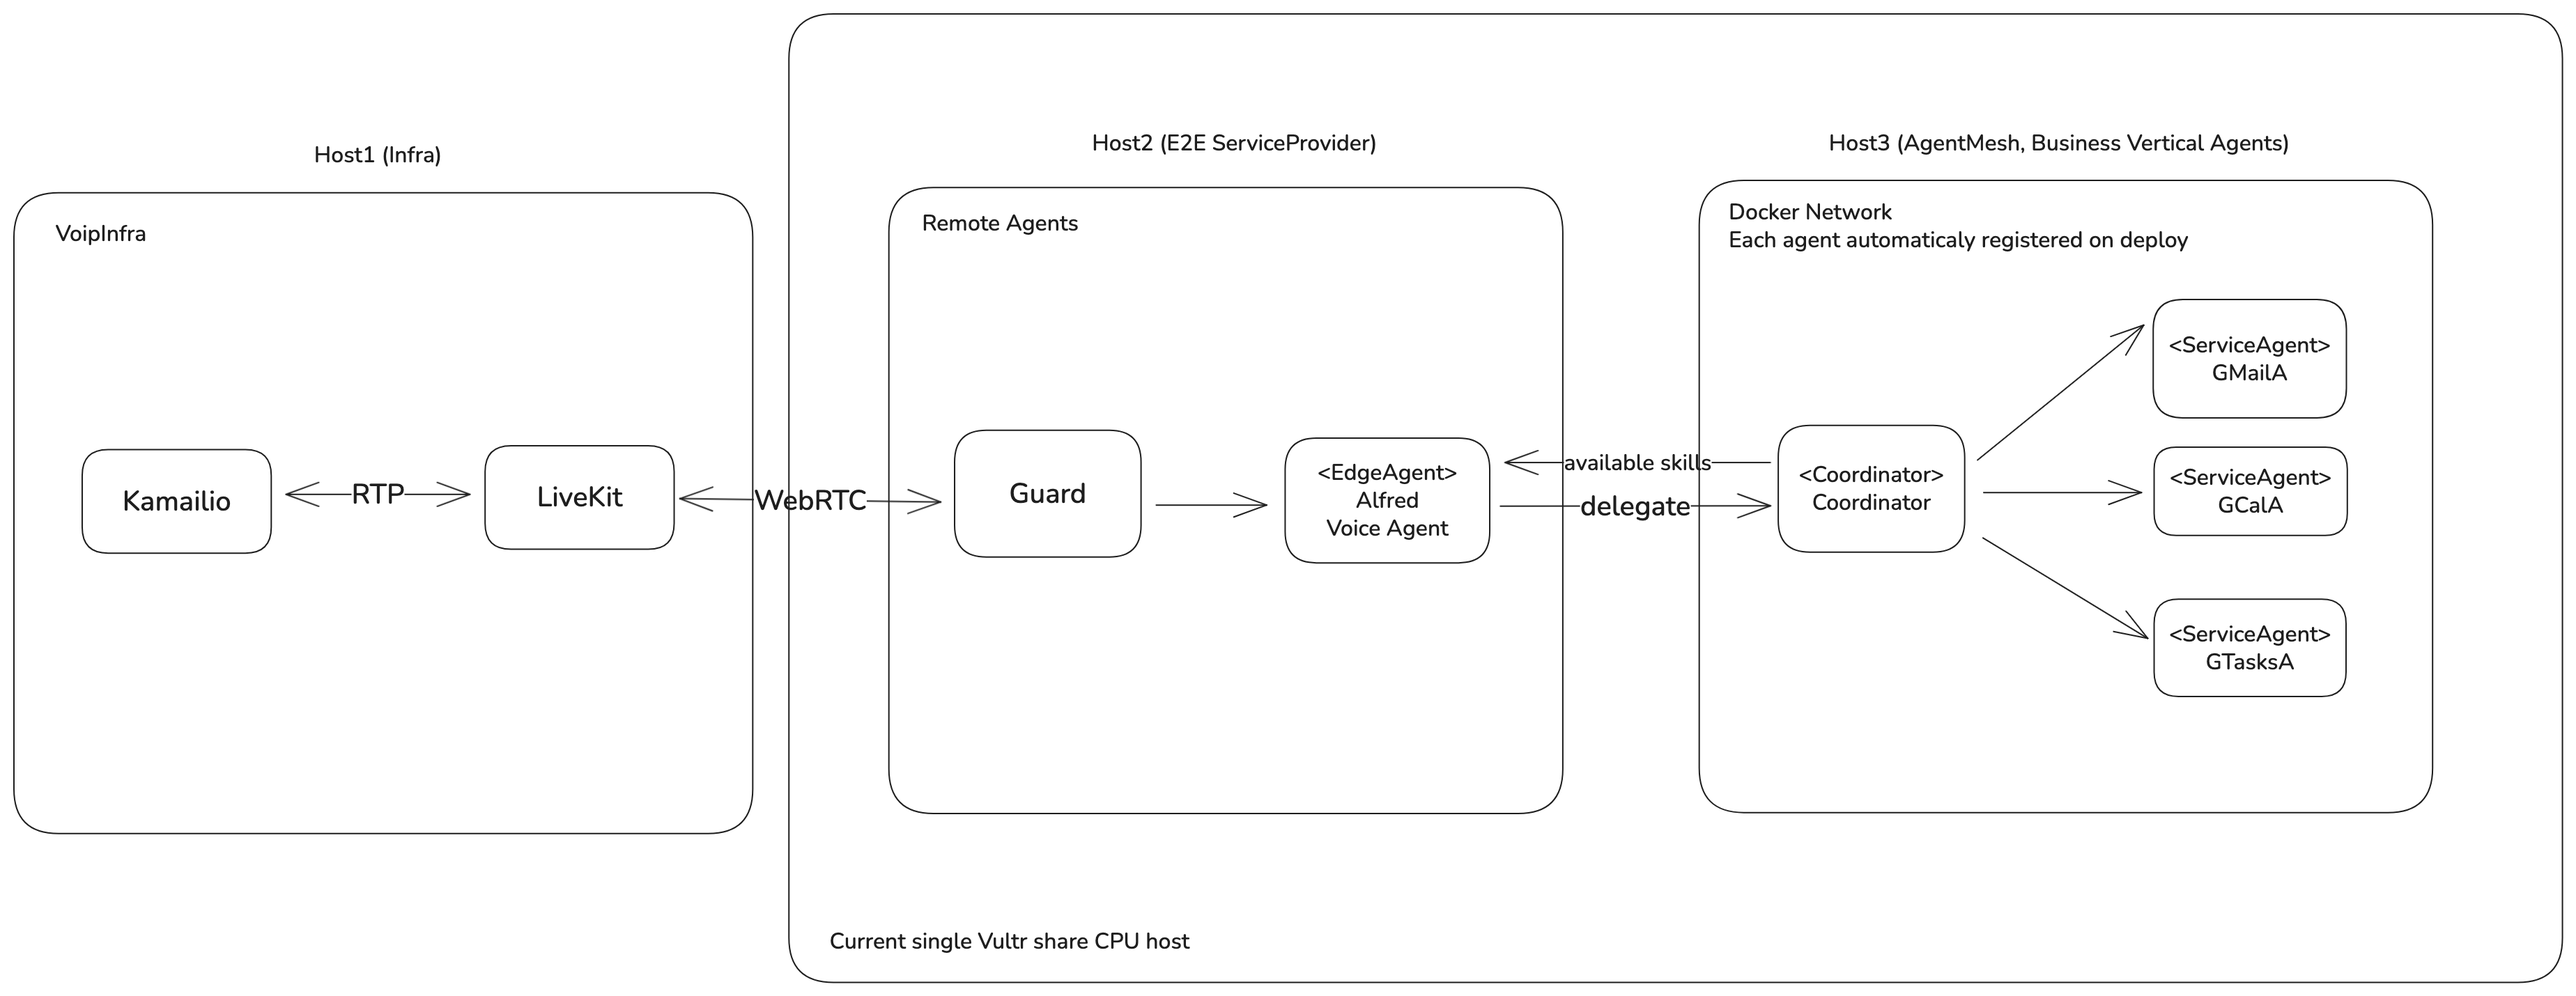
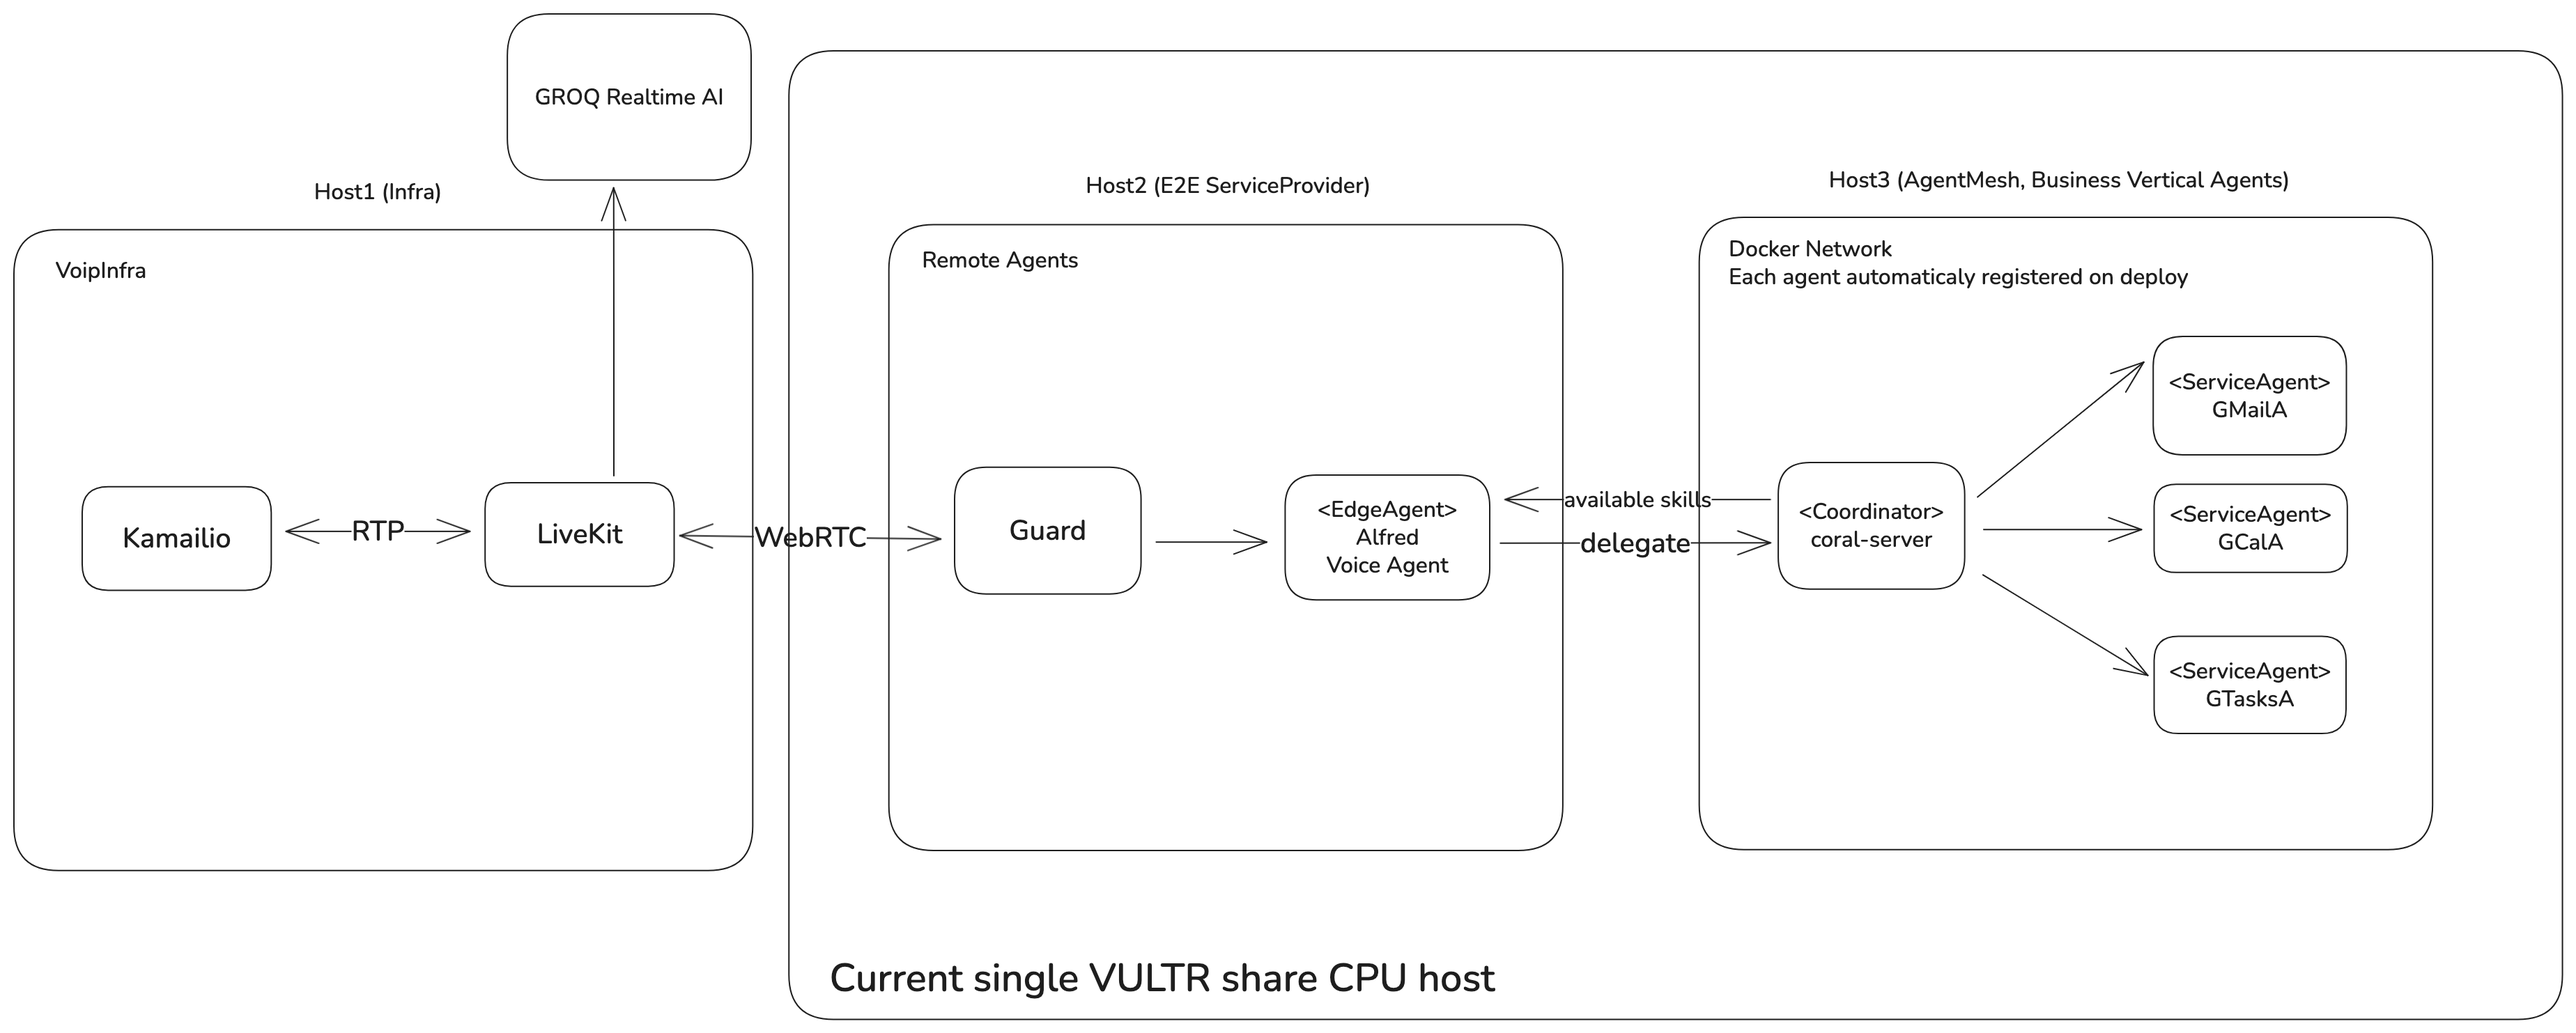
Fix readme and arch image

diff --git a/README.md b/README.md
@@ -25,6 +25,8 @@ Unlike traditional voice assistants that struggle with complex, multi-step tasks
 
 ## 🚀 Technology Stack
 
+![Architecture Overview](resources/arch.png)
+
 ### Core Technologies
 
 1. **Groq API** (Mandatory for Hackathon)
@@ -135,7 +137,7 @@ Alfred represents the future of human-computer interaction - where AI agents col
 
 We're not just building a voice assistant - we're creating a new paradigm for digital productivity.
 
-## 🏆 Why We'll Win
+## Why?
 
 1. **Mandatory Requirements Met**
 
@@ -170,25 +172,6 @@ Watch as Alfred transforms a chaotic morning into organized productivity:
 4. **Batman Mode**: Special demo mode with themed responses
 5. **Behind the Scenes**: Live visualization of multi-agent collaboration
 
----
-
-_"In the darkest of times, even Batman needs an Alfred. In the chaos of digital life, everyone deserves their own AI butler."_
-
----
-
-## Technical Specifications
-
-- **Latency**: <1.5s voice round-trip
-- **Accuracy**: 95%+ intent detection
-- **Scale**: 1000+ concurrent users per VM
-- **Languages**: English (expandable)
-- **Deployment**: Vultr Cloud, Docker Compose
-- **Security**: OAuth2, encrypted credentials
-
-## Try Alfred Now!
-
-📞 **Call Alfred directly**: +33 4 83 24 42 81 (France)
-
-Experience the future of voice-powered productivity. Just call and say "Alfred, I need your help!"
+--
 
 Built with ❤ for Raise Your Hack 2025
